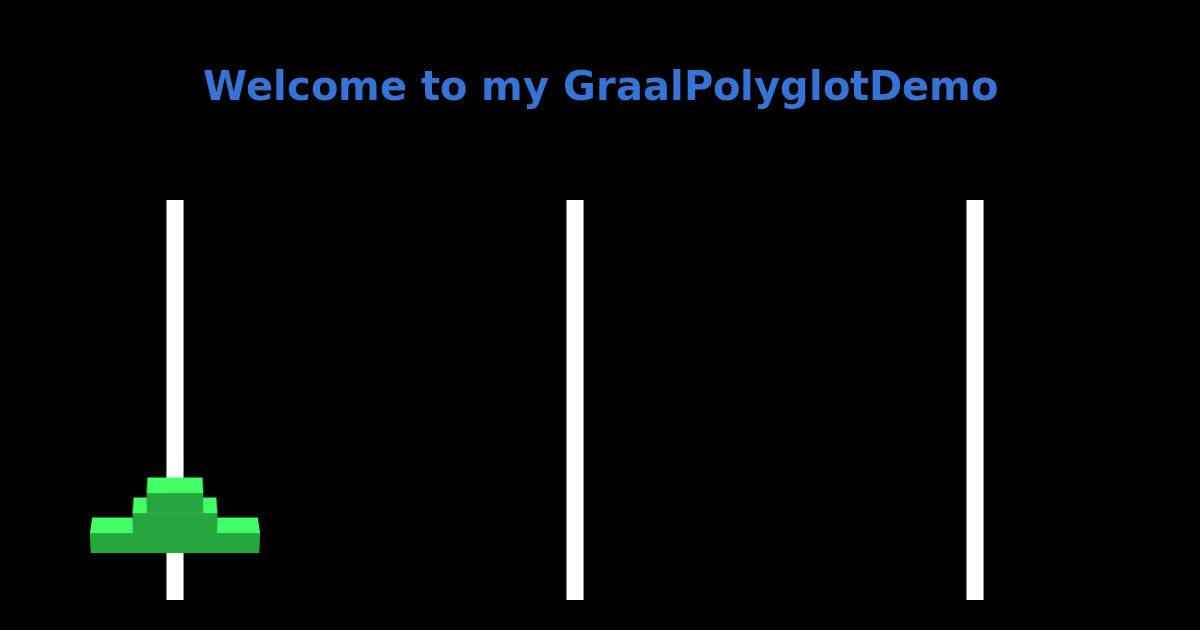
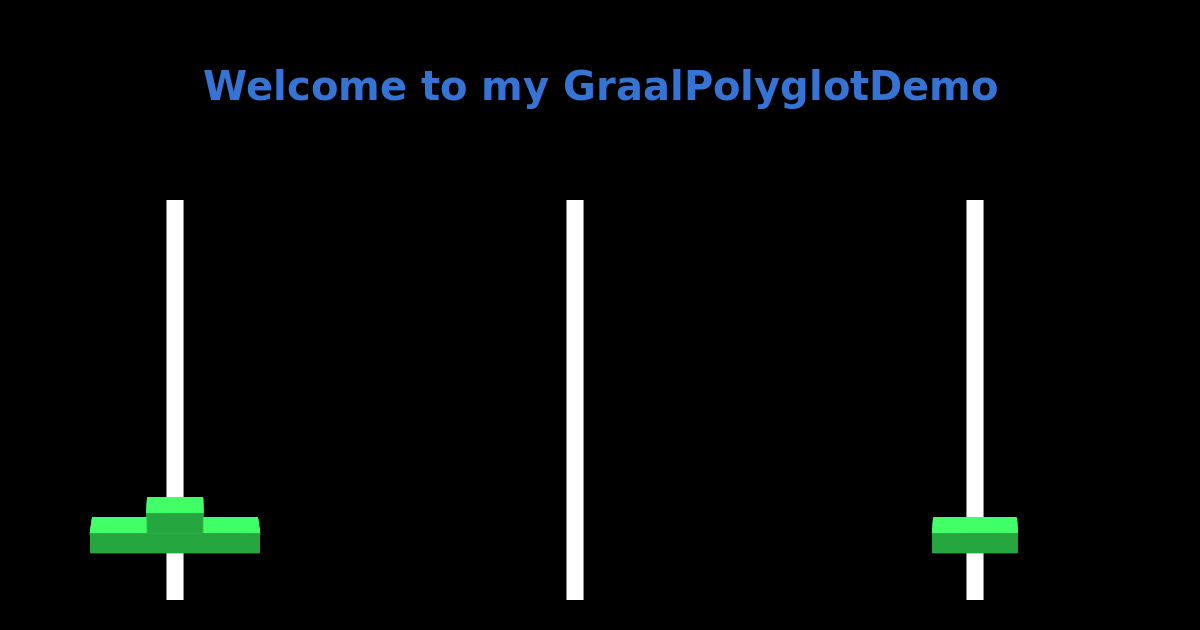
ADAPT to RULES OF THE HANOI

Changed region(s): [[0.7708, 0.8143, 0.8633, 0.9048], [0.0925, 0.754, 0.185, 0.8444]]

diff --git a/utilFunc/libStack.js b/utilFunc/libStack.js
@@ -31,7 +31,7 @@ function initiateStack(stacks,canvW,canvH,towers){
 				width: w/(i+1),
 				//using 70% of the tower for stacks && leave space for spacing {(stacks +1) not stacks}
 				height: h,
-				//125 for the margin && towersdx for to place in tower on iinitail position
+				//125 for the margin && towersdx to place in tower on iinitail position
 				dx: towers[0].dx + varx -125,
 				dy: y - 20*i,
 				destination:1
@@ -59,41 +59,57 @@ function drawStacks(actualStacks,targetImage,contexto,canvaso){
 
 
 
-//get the first disc's in a row id
+//get the first disc's in a row id 
 function minANDgetBros(imagesArray,row){
 	//initalise with any value 
 	let index = imagesArray[0];
-	let found = 0;
-	
+	let found = false;
+
 	for ( i=0; i<imagesArray.length;i++){
 		switch(found){
-			case 0 :
-				if (row==imagesArray[i].currrentPosition  ){
+			case false :
+				if (row==imagesArray[i].currentPosition  ){
 					index = imagesArray[i];
+					found=true;	
 				}
-			case 1 :
-				if ((imagesArray[i].width < index.width) && row==imagesArray[i].currentPosition ){
+			case true :
+				if ((imagesArray[i].width < index.width) && row==imagesArray[i].currentPosition ){ 
 					index = imagesArray[i];
 				}
 		}
 		
 	}
 	//console.log(index);
-	return index.id;
+	
+	return [found,index.id];
 };
 
 //stacks moving theo 
 function loadDestination(stacksArray,finek,destination){
+	//check possible move
+	let truth = minANDgetBros(stacksArray,finek);
 	//pick stack with min width we should move with finek
 	//move the image
-	let targetPosition = stacksArray.findIndex(element => element.id==minANDgetBros(stacksArray,finek) );
-	//the stack we need: console.log(stacksArray[targetPosition]);
-
-	console.log("destination: "+destination);
-	stacksArray[targetPosition].destination = destination;
+	if(truth[0]==true){
+		let targetPosition = stacksArray.findIndex(element => element.id==truth[1] );
+		//the stack we need: console.log(stacksArray[targetPosition]);
+		console.log("destination: "+destination);
+		stacksArray[targetPosition].destination = destination;	
+	}
 	//the stack with his new destination : 
 	//console.log(stacksArray);
 	return stacksArray;
+};
+
+function orderDestinationTower(stacksArray,destination){
+	//IMPORTANT: sum will never be 0 since we call this function AFTER  we move an object
+	let sum = 0;
+	for (i=0;i<stacksArray.length;i++){
+		if (stacksArray[i].currentPosition==destination){
+			sum++;
+		}
+	}
+	return sum ;
 };
 
 function move(stacksArray,targetImage,contexto,canvaso) {
@@ -102,10 +118,18 @@ function move(stacksArray,targetImage,contexto,canvaso) {
 	
 	for(i=0;i<stacksArray.length;i++){
 		if(stacksArray[i].currentPosition != stacksArray[i].destination){
+			//add a rule: you cant move a disc on top of a smaller one
+/*			if (minANDgetBros(stacksArray,destination)) {}
+*/
 			finek = stacksArray[i].currentPosition;
 			destination = stacksArray[i].destination;
 			//moving with: 400*(destination-finek)
 			stacksArray[i].dx = stacksArray[i].dx + 400*(destination-finek);
+			//update current position
+			stacksArray[i].currentPosition= destination;
+			//Test rank :console.log(orderDestinationTower(stacksArray,destination));
+			//update dy
+			stacksArray[i].dy = 480 -20*(orderDestinationTower(stacksArray,destination)-1);
 		}
 	}
 
@@ -114,4 +138,4 @@ function move(stacksArray,targetImage,contexto,canvaso) {
 
 	
 
-module.exports = {initiateStack,drawStacks,loadDestination,move};
+module.exports = {initiateStack,drawStacks,loadDestination,move,orderDestinationTower};

diff --git a/utilFunc/drawImg.js b/utilFunc/drawImg.js
@@ -1,6 +1,7 @@
 /********************************************************************************
 
 		DRAWIMG.JS IS FOR TESTING OUR JS SIDE OF THE POLYGLOT
+		////////////////////DRAW in one image we can olso save every step in seperate images
 
 *********************************************************************************/
 
@@ -45,9 +46,18 @@ function moveHanoi(canvas,context,targetPNG,stacks,start,end){
 	loadDestination(stacks,start,end);
 	move(stacks,targetPNG,context,canvas);
 }
-
-//Test
+/*******************************************************************/
+//Test in one image we can olso save every step in seperate images
 let s = drawHanoi(canvas,context,'./newStack.png');
-//moveHanoi(canvas,context,'./newStack.png',s,1,2);
+
+moveHanoi(canvas,context,'./newStack.png',s,1,2);
+moveHanoi(canvas,context,'./newStack.png',s,1,3);
+moveHanoi(canvas,context,'./newStack.png',s,2,3);
+moveHanoi(canvas,context,'./newStack.png',s,3,1);
+//impossible move
+//console.log(s);
+moveHanoi(canvas,context,'./newStack.png',s,2,3);
+
+/*******************************************************************/
 
 module.exports = {drawHanoi,moveHanoi};
